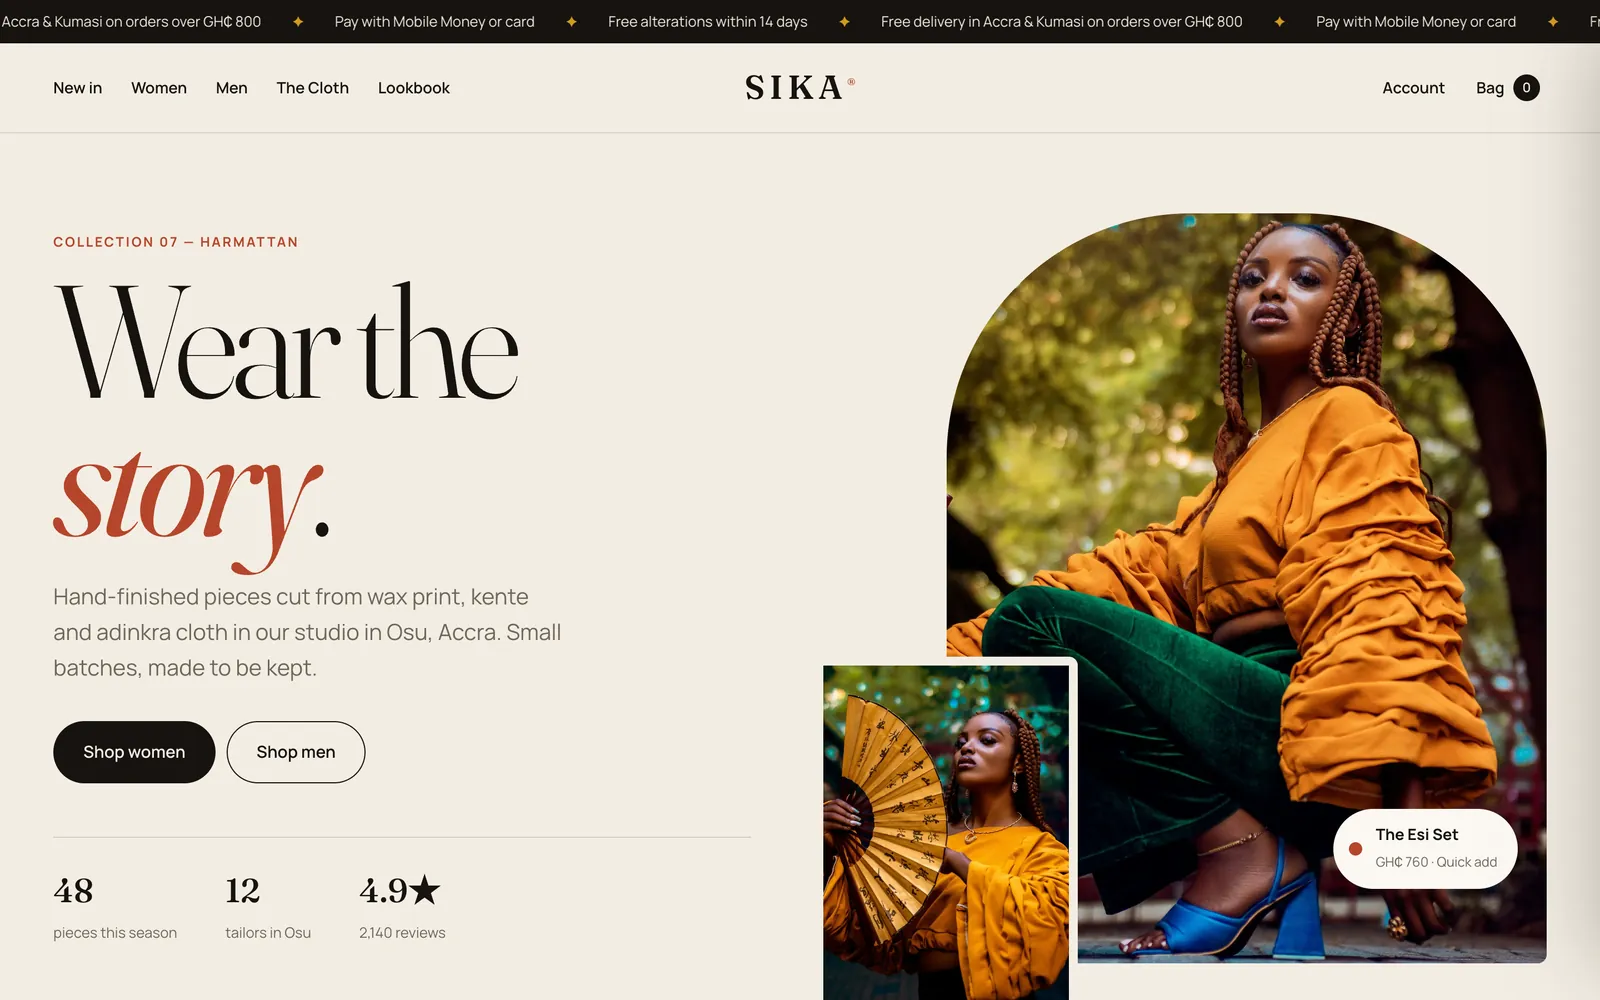
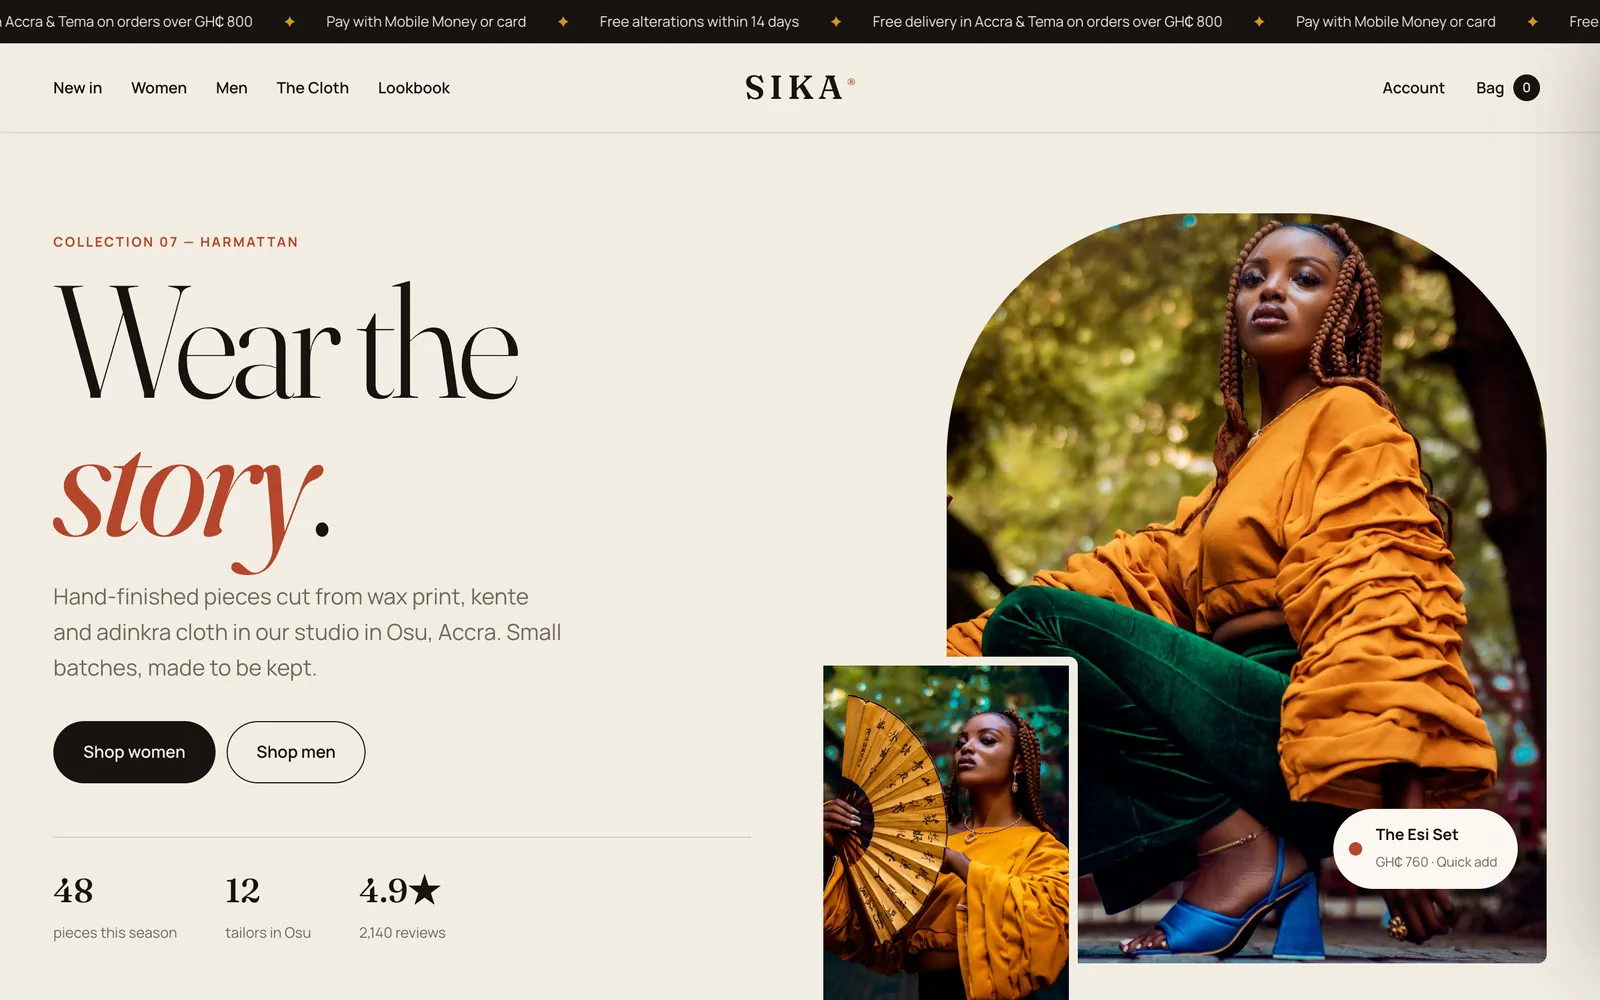
Remove code links, switch to all-rights-reserved, use Accra/Tema

diff --git a/index.html b/index.html
@@ -49,9 +49,9 @@
 </head>
 <body>
 <header>
-  <p class="mono">Open-source · HTML / CSS / JS · No build step</p>
+  <p class="mono">Live demos · Responsive · Built with HTML / CSS / JS</p>
   <h1>Website <em>templates</em></h1>
-  <p>Four complete, responsive websites, each with real working features: a cart, menus, a date-range booking calendar and a multi-step booking wizard. Designed and built by <a href="https://github.com/Creation20">William Bentil</a>. Free to use under MIT.</p>
+  <p>Four complete, responsive websites, each with real working features: a cart, menus, a date-range booking calendar and a multi-step booking wizard. Designed and built by <a href="https://github.com/Creation20">William Bentil</a>. Want one for your business? <a href="https://www.linkedin.com/in/william-bentil-382047326">Get in touch</a>.</p>
 </header>
 
 <main class="grid">
@@ -61,7 +61,7 @@
       <div class="tpl__top"><h2>SIKA</h2><span class="mono">Fashion e-commerce</span></div>
       <p>An editorial clothing store for African wear: category filters, a quick-add size picker, and a cart drawer with a free-delivery progress bar that saves to localStorage.</p>
       <div class="tags"><span>Product grid</span><span>Cart drawer</span><span>Size picker</span><span>Lookbook</span></div>
-      <div class="actions"><a class="btn btn--solid" href="sika/">Live demo ↗</a><a class="btn" href="https://github.com/Creation20/website-templates/tree/main/sika">Code</a></div>
+      <div class="actions"><a class="btn btn--solid" href="sika/">Live demo ↗</a></div>
     </div>
   </article>
   <article class="tpl" style="--c:#e2452b">
@@ -70,7 +70,7 @@
       <div class="tpl__top"><h2>Pepper &amp; Palm</h2><span class="mono">Restaurant</span></div>
       <p>A moody restaurant site with a live “open now” status, a tabbed menu with spice levels and a vegetarian filter, and table reservations that issue a booking ticket.</p>
       <div class="tags"><span>Tabbed menu</span><span>Reservations</span><span>Live hours</span><span>Gallery</span></div>
-      <div class="actions"><a class="btn btn--solid" href="pepper-and-palm/">Live demo ↗</a><a class="btn" href="https://github.com/Creation20/website-templates/tree/main/pepper-and-palm">Code</a></div>
+      <div class="actions"><a class="btn btn--solid" href="pepper-and-palm/">Live demo ↗</a></div>
     </div>
   </article>
   <article class="tpl" style="--c:#2bb3a3">
@@ -79,7 +79,7 @@
       <div class="tpl__top"><h2>Coastline</h2><span class="mono">Booking / stays</span></div>
       <p>A holiday-rental booking site with a custom date-range calendar, a guest picker, filters and a price slider, wishlists, and a stay page showing the full price breakdown.</p>
       <div class="tags"><span>Date-range picker</span><span>Filters</span><span>Price calc</span><span>Wishlist</span></div>
-      <div class="actions"><a class="btn btn--solid" href="coastline/">Live demo ↗</a><a class="btn" href="https://github.com/Creation20/website-templates/tree/main/coastline">Code</a></div>
+      <div class="actions"><a class="btn btn--solid" href="coastline/">Live demo ↗</a></div>
     </div>
   </article>
   <article class="tpl" style="--c:#d4ff3a">
@@ -88,13 +88,13 @@
       <div class="tpl__top"><h2>Fade Room</h2><span class="mono">Appointments</span></div>
       <p>A bold barbershop site with a four-step booking wizard covering service, barber, live time slots and your details. It ends with a booking summary and an .ics calendar file.</p>
       <div class="tags"><span>Booking wizard</span><span>Time slots</span><span>.ics export</span><span>Pricing</span></div>
-      <div class="actions"><a class="btn btn--solid" href="fade-room/">Live demo ↗</a><a class="btn" href="https://github.com/Creation20/website-templates/tree/main/fade-room">Code</a></div>
+      <div class="actions"><a class="btn btn--solid" href="fade-room/">Live demo ↗</a></div>
     </div>
   </article>
 </main>
 
 <footer>
-  <span>© 2026 William Bentil · MIT licence</span>
+  <span>© 2026 William Bentil · All rights reserved</span>
   <span>All brands are fictional · Photos from <a href="https://unsplash.com">Unsplash</a></span>
 </footer>
 </body>

diff --git a/sika/index.html b/sika/index.html
@@ -16,10 +16,10 @@
 
 <div class="announce" role="note">
   <div class="announce__track">
-    <span>Free delivery in Accra &amp; Kumasi on orders over GH₵ 800</span><i>✦</i>
+    <span>Free delivery in Accra &amp; Tema on orders over GH₵ 800</span><i>✦</i>
     <span>Pay with Mobile Money or card</span><i>✦</i>
     <span>Free alterations within 14 days</span><i>✦</i>
-    <span aria-hidden="true">Free delivery in Accra &amp; Kumasi on orders over GH₵ 800</span><i>✦</i>
+    <span aria-hidden="true">Free delivery in Accra &amp; Tema on orders over GH₵ 800</span><i>✦</i>
     <span aria-hidden="true">Pay with Mobile Money or card</span><i>✦</i>
     <span aria-hidden="true">Free alterations within 14 days</span><i>✦</i>
   </div>
@@ -154,8 +154,8 @@
   <!-- Reviews -->
   <section class="reviews">
     <blockquote><p>“The kente dress fit like it was made for me, because it nearly was. They took it in for free.”</p><cite>Akosua, East Legon</cite></blockquote>
-    <blockquote><p>“Paid with MoMo, delivered to Kumasi in two days. The blazer gets compliments every single time.”</p><cite>Kwabena, Kumasi</cite></blockquote>
-    <blockquote><p>“Finally a Ghanaian brand that tells you where the cloth is from.”</p><cite>Nana Ama, Tema</cite></blockquote>
+    <blockquote><p>“Paid with MoMo, delivered to Tema the next day. The blazer gets compliments every single time.”</p><cite>Kwabena, Tema</cite></blockquote>
+    <blockquote><p>“Finally a Ghanaian brand that tells you where the cloth is from.”</p><cite>Nana Ama, Spintex</cite></blockquote>
   </section>
 
   <!-- Newsletter -->

diff --git a/sika/main.js b/sika/main.js
@@ -111,7 +111,7 @@ function renderCart() {
   $('#cartCount').textContent = count ? `(${count})` : '';
   $('#subtotal').textContent = fmt(total);
   const left = FREE_SHIP - total;
-  $('#shipMsg').innerHTML = left > 0 ? `You're <b>${fmt(left)}</b> away from free delivery in Accra &amp; Kumasi.` : '🎉 You\'ve unlocked <b>free delivery</b>.';
+  $('#shipMsg').innerHTML = left > 0 ? `You're <b>${fmt(left)}</b> away from free delivery in Accra &amp; Tema.` : '🎉 You\'ve unlocked <b>free delivery</b>.';
   $('#shipBar').style.width = Math.min(100, (total / FREE_SHIP) * 100) + '%';
   $('#checkout').disabled = !count;
   $('#checkout').style.opacity = count ? 1 : .4;

diff --git a/README.md b/README.md
@@ -1,6 +1,6 @@
 # Website Templates
 
-Four complete, responsive website templates. Each one has real working features, not just static mockups. They are plain HTML, CSS and JavaScript with no build step and no dependencies.
+Four complete, responsive website templates. Each one has real working features, not just static mockups.
 
 **Live gallery:** https://creation20.github.io/website-templates/
 
@@ -11,15 +11,9 @@ Four complete, responsive website templates. Each one has real working features,
 | ![Coastline](previews/coastline-desktop.webp) | [**Coastline**](https://creation20.github.io/website-templates/coastline/) | Booking / holiday stays | Custom date-range calendar, guests and pets picker, filters, price slider and sorting, wishlist, stay detail with gallery and price breakdown (nights, cleaning, service fee, weekly discount), reservation flow |
 | ![Fade Room](previews/fade-room-desktop.webp) | [**Fade Room**](https://creation20.github.io/website-templates/fade-room/) | Appointments | Four-step booking wizard (service and add-ons, barber, day and time slots, details), live summary and total, "next free chair" finder, downloadable `.ics` calendar invite, memberships, image preview on hover |
 
-## Using a template
+## Licensing
 
-Each folder is self-contained. Copy one, open `index.html` in a browser, and edit:
-
-- **Content:** product, menu, stay and service data lives in the arrays at the top of each `main.js`.
-- **Colours and fonts:** CSS custom properties at the top of each `style.css`.
-- **Images:** swap the files in each `img/` folder (WebP, already optimised).
-
-The demos stop where a real backend would take over. Checkout, reservations and bookings are where you would connect Paystack, Hubtel, MoMo, a calendar API or your own server.
+These templates are proprietary and shared for viewing only. Want one customised for your business? [Get in touch](https://www.linkedin.com/in/william-bentil-382047326).
 
 ## Built with
 
@@ -31,4 +25,4 @@ The demos stop where a real backend would take over. Checkout, reservations and 
 
 Designed and built by [William Bentil](https://github.com/Creation20). All brands, people, prices and listings are fictional. Photos are from [Unsplash](https://unsplash.com) under the Unsplash License; source photo IDs are listed in `photo-credits.json`.
 
-Code released under the [MIT License](LICENSE).
+© 2026 William Bentil. All rights reserved. See [LICENSE](LICENSE).
